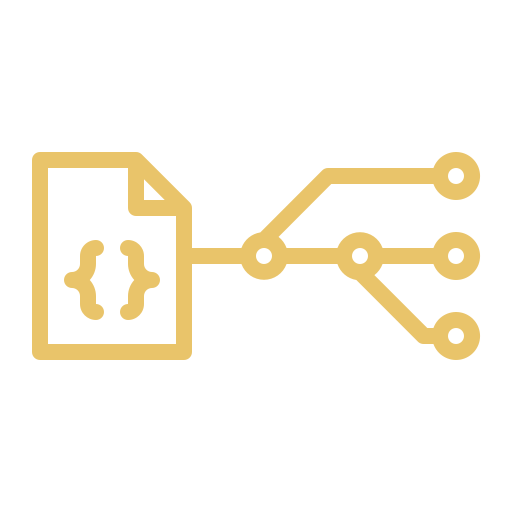
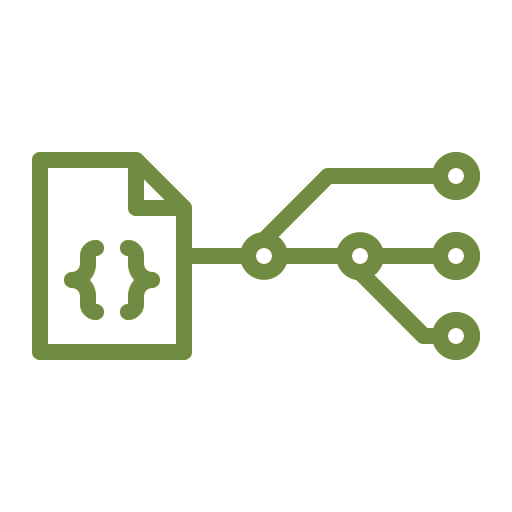
cambio paleta de colores

Changed region(s): [[0.0625, 0.2812, 0.9375, 0.7188], [0.125, 0.4688, 0.3125, 0.625]]

diff --git a/css/estilo.css b/css/estilo.css
@@ -6,8 +6,8 @@
 }
 
 html, body {
-  background-color: #264653;
-  color: #E76F51;
+  background-color: #0D0D0D;
+  color: #D6F272;
   font-size: 20px;
   font-family: "Syne", sans-serif;
 }
@@ -24,7 +24,7 @@ h2 {
 }
 
 a {
-  color: #E76F51;
+  color: #D6F272;
   text-decoration: none;
 }
 
@@ -59,7 +59,7 @@ section {
   justify-content: center;
   flex-basis: 56.25vw;
   margin: 0;
-  background: #E9C46A;
+  background: #595959;
   border-radius: 100px;
   max-width: 62.5vw;
   transition: flex-basis 1s cubic-bezier(0, 0.9, 0.4, 0.99);
@@ -73,10 +73,10 @@ section {
   flex-direction: column;
   justify-content: center;
   flex: 1;
-  background: #734B5E;
+  background: #333333;
   padding: 3.125vw 6.25vw;
   border-radius: 100px;
-  box-shadow: inset -17px 17px 17px #4e3340, inset 17px -17px 17px #98637c;
+  box-shadow: inset -20px 20px 17px #3a3a3a, inset 20px -20px 17px #787878;
 }
 .services article .text a {
   font-family: "Space Mono", monospace;
@@ -131,17 +131,17 @@ body nav ul li {
   margin-left: 45px;
 }
 body nav ul li a {
-  color: #E76F51;
+  color: #D6F272;
   font-family: "Space Mono", monospace;
 }
 
 .about .empty {
   flex-basis: 37.5vw;
-  background-color: #F4A261;
+  background-color: #BAF266;
   border-radius: 100px;
   transition: flex-basis 1s cubic-bezier(0, 0.9, 0.4, 0.99);
   min-width: 15.625vw;
-  box-shadow: inset -17px 17px 17px #a66e42, inset 17px -17px 17px #ffd680;
+  box-shadow: inset -20px 20px 17px #799d42, inset 20px -20px 17px #fbff8a;
 }
 .about article {
   flex: 1;
@@ -152,10 +152,11 @@ body nav ul li a {
   flex: 1;
   display: flex;
   align-items: flex-end;
-  background-color: #2A9D8F;
+  background-color: #595959;
   border-radius: 100px;
   padding: 3.125vw 6.25vw;
   transition: flex-basis 1s cubic-bezier(0, 0.9, 0.4, 0.99);
+  box-shadow: inset -20px 20px 17px #3a3a3a, inset 20px -20px 17px #787878;
 }
 .about article .title h1 {
   animation-name: float;
@@ -168,14 +169,16 @@ body nav ul li a {
   flex: 1;
   display: flex;
   align-items: center;
-  background: #BA7BA1;
+  background: #64734E;
   border-radius: 100px;
   padding: 3.125vw 6.25vw;
-  color: #264653;
+  color: #D6F272;
+  box-shadow: inset -20px 20px 17px #414b33, inset 20px -20px 17px #879b69;
 }
 
 .services-html article figure {
-  background: #E9C46A;
+  background: #6F8C42;
+  box-shadow: inset -20px 20px 17px #485b2b, inset 20px -20px 17px #96bd59;
 }
 .services-html article figure img {
   animation-name: float;
@@ -185,11 +188,12 @@ body nav ul li a {
   animation-timing-function: cubic-bezier(0.77, 0.28, 0.42, 0.93);
 }
 .services-html article .text h2, .services-html article .text a {
-  color: #BA7BA1;
+  color: #64734E;
 }
 
 .services-css article figure {
-  background: #2A9D8F;
+  background: #595959;
+  box-shadow: inset -20px 20px 17px #3a3a3a, inset 20px -20px 17px #787878;
 }
 .services-css article figure img {
   animation-name: scale;
@@ -199,11 +203,12 @@ body nav ul li a {
   animation-timing-function: cubic-bezier(0.77, 0.28, 0.42, 0.93);
 }
 .services-css article .text h2, .services-css article .text a {
-  color: #E9C46A;
+  color: #6F8C42;
 }
 
 .services-js article figure {
-  background: #BA7BA1;
+  background: #64734E;
+  box-shadow: inset -20px 20px 17px #414b33, inset 20px -20px 17px #879b69;
 }
 .services-js article figure img {
   animation-name: rotate;
@@ -213,7 +218,7 @@ body nav ul li a {
   animation-timing-function: cubic-bezier(0.77, 0.28, 0.42, 0.93);
 }
 .services-js article .text h2, .services-js article .text a {
-  color: #BA7BA1;
+  color: #595959;
 }
 
 .contact {
@@ -221,19 +226,19 @@ body nav ul li a {
   flex-direction: column;
   align-items: center;
   justify-content: center;
-  background: linear-gradient(#2A9D8F, #E9C46A 60%, #BA7BA1 70%, #F4A261);
+  background: linear-gradient(#BAF266, #6F8C42 60%, #595959 70%, #D6F272);
   border-radius: 100px;
 }
 .contact a {
   font-size: 80px;
-  color: #264653;
+  color: #D6F272;
   font-weight: bold;
   transition: 2s cubic-bezier(0.77, 0.28, 0.42, 0.93);
 }
 .contact a:hover {
   transition: 1s;
   scale: 1.05;
-  color: #2A9D8F;
+  color: #64734E;
 }
 
 @media screen and (max-width: 1300px) {

diff --git a/scss/componentes/_about.scss b/scss/componentes/_about.scss
@@ -1,12 +1,12 @@
 .about{
     .empty{
         flex-basis: 37.5vw;
-        background-color: $color4;
+        background-color: $color1;
         border-radius: nth($border-radius, 1);
         transition: flex-basis 1s cubic-bezier(0,.9,.4,.99);
         min-width: 15.625vw;
-        box-shadow: inset -17px 17px 17px #a66e42,
-            inset 17px -17px 17px #ffd680;
+        box-shadow: inset -20px 20px 17px #799d42,
+        inset 20px -20px 17px #fbff8a;
     }
     article{
         flex: 1;
@@ -16,10 +16,12 @@
             flex: 1;
             display: flex;
             align-items: flex-end;
-            background-color: $color1;
+            background-color: $color2;
             border-radius: nth($border-radius, 1);
             padding: nth($gutter, 1);
             transition: flex-basis 1s cubic-bezier(0,.9,.4,.99);
+            box-shadow: inset -20px 20px 17px #3a3a3a,
+            inset 20px -20px 17px #787878;
             h1{
                 animation-name: float;
                 animation-duration: 1s;
@@ -32,10 +34,12 @@
             flex: 1;
             display: flex;
             align-items: center;
-            background: $color2;
+            background: $color5;
             border-radius: nth($border-radius, 1);
             padding: nth($gutter, 1);
-            color: $color6;
+            color: $color4;
+            box-shadow: inset -20px 20px 17px #414b33,
+            inset 20px -20px 17px #879b69;
         }
     }
 }

diff --git a/scss/componentes/_services.scss b/scss/componentes/_services.scss
@@ -2,6 +2,8 @@
     article{
         figure{
             background: $color3;
+            box-shadow: inset -20px 20px 17px #485b2b,
+            inset 20px -20px 17px #96bd59;
             img{
                 animation-name: float;
                 animation-duration: 1s;
@@ -12,7 +14,7 @@
         }
         .text{
             h2, a{
-                color: $color2;
+                color: $color5;
             }
         }
     }
@@ -20,7 +22,9 @@
 .services-css{
     article{
         figure{
-            background: $color1;
+            background: $color2;
+            box-shadow: inset -20px 20px 17px #3a3a3a,
+            inset 20px -20px 17px #787878;
             img{
                 animation-name: scale;
                 animation-duration: 1s;
@@ -39,7 +43,9 @@
 .services-js{
     article{
         figure{
-            background: $color2;
+            background: $color5;
+            box-shadow: inset -20px 20px 17px #414b33,
+            inset 20px -20px 17px #879b69;
             img{
                 animation-name: rotate;
                 animation-duration: 2s;

diff --git a/scss/base/_generales.scss b/scss/base/_generales.scss
@@ -8,7 +8,7 @@
 
 html, body{
     background-color: $color6;
-    color: $color5;
+    color: $color4;
     font-size: 20px;
     font-family: 'Syne', sans-serif;
 }
@@ -23,7 +23,7 @@ h2{
     margin: 0px;
 }
 a{
-    color: $color5;
+    color: $color4;
     text-decoration: none;
 }
 section{
@@ -56,7 +56,7 @@ section{
             justify-content: center;
             flex-basis: 56.25vw;
             margin: 0;
-            background: $color3;
+            background: $color2;
             border-radius: nth($border-radius, 1);
             max-width: 62.5vw;
             transition: flex-basis 1s cubic-bezier(0,.9,.4,.99);
@@ -73,8 +73,8 @@ section{
             background: $color7;
             padding: nth($gutter, 1);;
             border-radius: nth($border-radius, 1);
-            box-shadow: inset -17px 17px 17px #4e3340,
-            inset 17px -17px 17px #98637c;
+            box-shadow: inset -20px 20px 17px #3a3a3a,
+            inset 20px -20px 17px #787878;
             a{
                 font-family: "Space Mono", monospace;
             }

diff --git a/scss/componentes/_contact.scss b/scss/componentes/_contact.scss
@@ -7,13 +7,13 @@
     border-radius: nth($border-radius, 1);
     a{
         font-size: 80px;
-        color: $color6;
+        color: $color4;
         font-weight: bold;
         transition: 2s cubic-bezier(.77,.28,.42,.93);
         &:hover{
             transition: 1s;
             scale: 1.05;
-            color: $color1;
+            color: $color5;
         }
     }
 }

diff --git a/scss/base/_funcionalidades.scss b/scss/base/_funcionalidades.scss
@@ -1,9 +1,9 @@
-$color1: #2A9D8F;
-$color2: #BA7BA1;
-$color3: #E9C46A;
-$color4: #F4A261;
-$color5: #E76F51;
-$color6: #264653;
-$color7: #734B5E;
+$color1: #BAF266;
+$color2: #595959;
+$color3: #6F8C42;
+$color4: #D6F272;
+$color5: #64734E;
+$color6: #0D0D0D;
+$color7: #333333;
 $border-radius: 100px, 75px, 55px;
 $gutter: 3.125vw 6.25vw, 6.35vw;

diff --git a/scss/componentes/_nav.scss b/scss/componentes/_nav.scss
@@ -18,7 +18,7 @@ body{
                 list-style: none;
                 margin-left: 45px;
                 a{
-                    color: $color5;
+                    color: $color4;
                     font-family: "Space Mono", monospace;
                 }
             }
